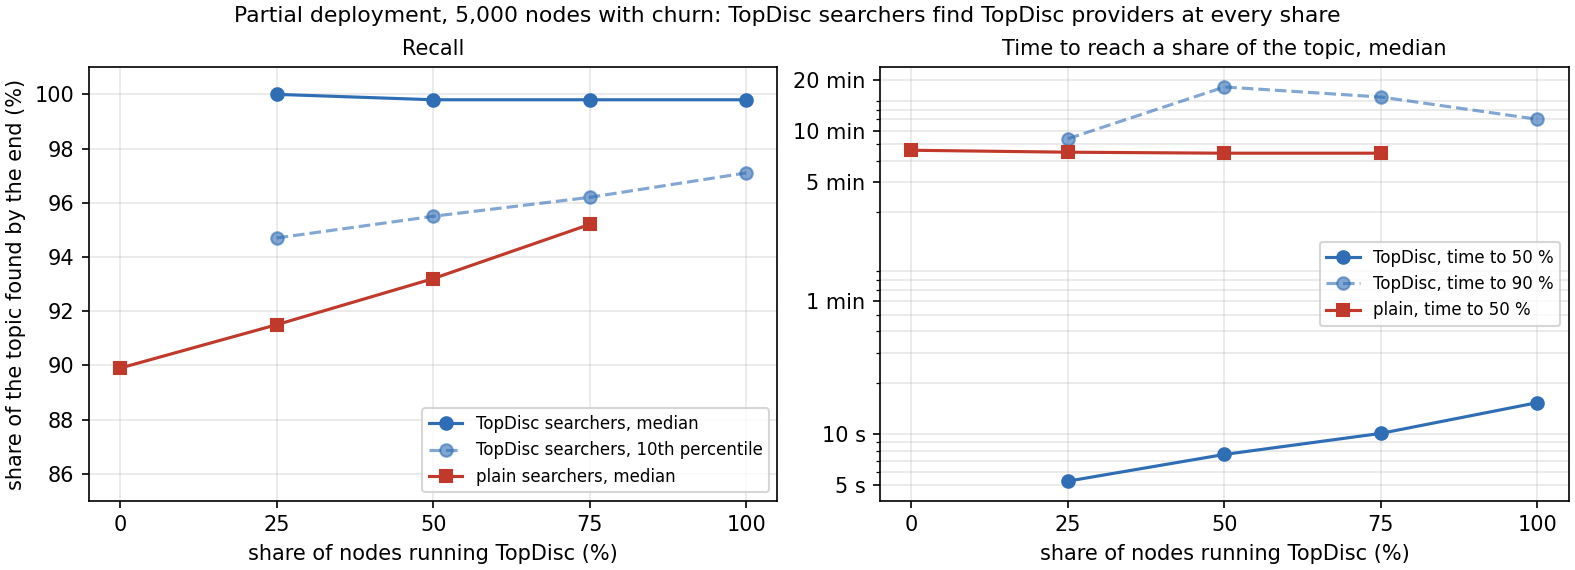
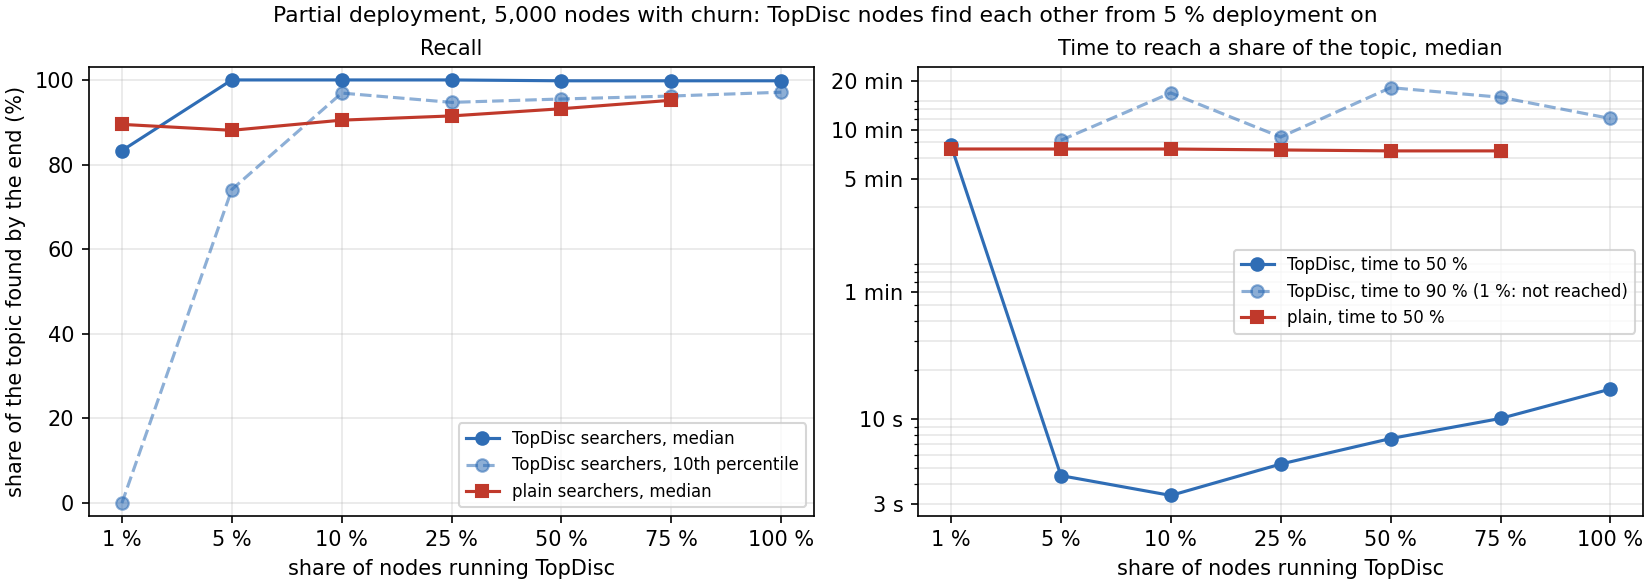
docs/final-report: partial deployment at 1, 5 and 10 %

diff --git a/docs/final-report/deploy/README.md b/docs/final-report/deploy/README.md
@@ -4,18 +4,20 @@
 
 ## Summary
 
-TopDisc nodes find the TopDisc nodes of their topic at every deployment share tested, from 25 % to 100 % of the network, and nodes that do not run TopDisc are not affected.
+TopDisc nodes find the TopDisc nodes of their topic from 5 % deployment on, and nodes that do not run TopDisc are not affected at any share. At 1 % deployment, TopDisc nodes are too scarce to find each other reliably.
 
-- The median TopDisc searcher finds 99.8 % to 100 % of its topic's TopDisc providers; 9 in 10 find at least 94.7 %.
+- From 5 % to 100 % deployment the median TopDisc searcher finds 99.8 % to 100 % of its topic's TopDisc providers; from 10 % on, 9 in 10 find at least 94.7 %.
+- At 1 % (46 TopDisc nodes in 5,000) the median TopDisc searcher finds 83.3 % and needs 8 min for half, no faster than a plain walk: 37 % of TopDisc nodes never meet another TopDisc node in their routing table.
 - At 25 % deployment, TopDisc searchers reach half of their providers in 5.3 s; plain discv5 searchers need 7.5 min for half of theirs.
 - Registrar load grows with the number of TopDisc nodes, so a small deployment does not concentrate load: the busiest registrar receives 11,614 requests at 25 % against 31,000 at 100 %.
 - No topic message reaches a plain node at any share, and plain nodes send less traffic as the TopDisc share grows.
 
 ## Scenario and setup
 
-Five 5,000-node runs on the AWS packed testbed (10 hosts, 500 nodes per host, each node with a 1 Mbit/s link and 4 to 45 ms one-way delay), each with a 90 min continuous search per node.
+Eight 5,000-node runs on the AWS packed testbed (10 hosts, 500 nodes per host, each node with a 1 Mbit/s link and 4 to 45 ms one-way delay), each with a 90 min continuous search per node.
 
-- **Deployment share.** TopDisc runs on 0, 25, 50, 75 or 100 % of the nodes, drawn within every topic, so each topic keeps roughly the run's share of TopDisc nodes. The other nodes run plain discv5 built from the same code base.
+- **Deployment share.** TopDisc runs on 0, 1, 5, 10, 25, 50, 75 or 100 % of the nodes, drawn within every topic, so each topic keeps roughly the run's share of TopDisc nodes. The other nodes run plain discv5 built from the same code base.
+- **Two sweeps, same workload.** The 0, 25, 50, 75 and 100 % runs come from a sweep on 2026-10-26, the 1, 5 and 10 % runs from a second sweep on 2026-10-27.
 - **Topics.** 98 topics sized by the chain shares of a 24 h mainnet crawl. Every node registers and searches one topic.
 - **Churn.** Node sessions replayed from the [crawl's churn analysis](../../churn-analysis.md), as in the main report.
 - **Scoring.** A TopDisc searcher is scored against the TopDisc providers of its topic, a plain searcher against all providers of its topic, counting only providers up at the end of the search. A TopDisc node alone in its topic has nobody to find and is not scored.
@@ -27,6 +29,12 @@ Five 5,000-node runs on the AWS packed testbed (10 hosts, 500 nodes per host, ea
 | TopDisc share | Node type | Searchers / scored | Recall, median / 10th pct | First provider, median | Time to 50 % | Time to 90 % |
 |---:|---|---:|---:|---:|---:|---:|
 | 0 % | plain | 4,996 / 4,976 | 89.9 / 46.9 % | 0 ms | 7.7 min | not reached by half |
+| 1 % | TopDisc | 46 / 36 | 83.3 / 0.0 % | 8.8 s | 8.0 min | not reached by half |
+| 1 % | plain | 4,950 / 4,930 | 89.5 / 47.2 % | 0 ms | 7.6 min | not reached by half |
+| 5 % | TopDisc | 240 / 223 | 100.0 / 74.1 % | 4.0 s | 4.5 s | 8.6 min |
+| 5 % | plain | 4,756 / 4,736 | 88.1 / 47.1 % | 0 ms | 7.6 min | not reached by half |
+| 10 % | TopDisc | 496 / 461 | 100.0 / 96.9 % | 2.4 s | 3.4 s | 16.8 min |
+| 10 % | plain | 4,501 / 4,482 | 90.5 / 47.5 % | 0 ms | 7.6 min | 85.8 min |
 | 25 % | TopDisc | 1,228 / 1,196 | 100.0 / 94.7 % | 1.8 s | 5.3 s | 9.0 min |
 | 25 % | plain | 3,767 / 3,748 | 91.5 / 49.6 % | 0 ms | 7.5 min | 77.1 min |
 | 50 % | TopDisc | 2,478 / 2,450 | 99.8 / 95.5 % | 1.4 s | 7.6 s | 18.1 min |
@@ -37,17 +45,29 @@ Five 5,000-node runs on the AWS packed testbed (10 hosts, 500 nodes per host, ea
 
 *A plain searcher's first provider at 0 ms is a provider already in its routing table when the search starts. Times are medians over searchers.*
 
-**Reading.** TopDisc's recall does not depend on the share: a TopDisc node finds the others through registrars, wherever they sit. Time to 50 % grows from 5.3 s to 15.3 s with the share, as each topic holds more TopDisc providers to collect. Plain searchers stay at the speed of a random walk, about 7.5 min to half of their topic.
+**Reading.** From 5 % on, TopDisc's recall does not depend on the share: a TopDisc node finds the others through registrars, wherever they sit. Time to 50 % grows from 5.3 s to 15.3 s with the share, as each topic holds more TopDisc providers to collect. Plain searchers stay at the speed of a random walk, about 7.5 min to half of their topic. At 1 % TopDisc loses its advantage: with 46 TopDisc nodes in the network, a TopDisc node often has no other TopDisc node in its routing table to start from (63 % saw one by the end of the search), so its search has few or no registrars to ask.
+
+| TopDisc share | Topics with no TopDisc node | with one | with two or more |
+|---:|---:|---:|---:|
+| 1 % | 83 | 10 | 5 |
+| 5 % | 63 | 17 | 18 |
+| 10 % | 40 | 30 | 28 |
+| 25 % | 23 | 29 | 46 |
+
+*Out of 98 topics. Only topics with two or more TopDisc nodes have anyone to find through TopDisc.*
 
 ### By topic size
 
-The slower time to 90 % at 50 % and 75 % comes from the largest topics; topics under 1,000 nodes reach 90 % in seconds to minutes at every share.
+The slower time to 90 % at 10 %, 50 % and 75 % comes from the largest topics; topics under 1,000 nodes reach 90 % in seconds to minutes at every share from 5 % on.
 
 #### Topics of 1000+ nodes
 
 | TopDisc share | TopDisc recall, median / 10th pct | TopDisc time to 50 % / 90 % | plain recall, median / 10th pct | plain time to 50 % / 90 % |
 |---:|---:|---:|---:|---:|
 | 0 % | – | – / – | 90.0 / 42.8 % | 7.8 min / 89.0 min |
+| 1 % | 83.3 / 0.0 % | 16.1 min / not reached by half | 89.5 / 42.7 % | 7.7 min / not reached by half |
+| 5 % | 97.8 / 80.2 % | 4.5 s / 23.8 min | 88.0 / 41.9 % | 7.7 min / not reached by half |
+| 10 % | 100.0 / 97.6 % | 4.5 s / 30.5 min | 90.4 / 42.9 % | 7.7 min / 86.3 min |
 | 25 % | 99.7 / 94.0 % | 7.4 s / 18.6 min | 91.7 / 45.2 % | 7.5 min / 76.4 min |
 | 50 % | 99.7 / 94.6 % | 11.3 s / 25.7 min | 93.6 / 46.1 % | 7.3 min / 64.9 min |
 | 75 % | 99.8 / 95.8 % | 15.2 s / 16.3 min | 95.7 / 46.3 % | 7.3 min / 53.9 min |
@@ -58,6 +78,9 @@ The slower time to 90 % at 50 % and 75 % comes from the largest topics; topics u
 | TopDisc share | TopDisc recall, median / 10th pct | TopDisc time to 50 % / 90 % | plain recall, median / 10th pct | plain time to 50 % / 90 % |
 |---:|---:|---:|---:|---:|
 | 0 % | – | – / – | 90.3 / 67.1 % | 7.0 min / 79.9 min |
+| 1 % | 100.0 / 0.0 % | 6.8 s / 16.2 s | 90.9 / 64.9 % | 7.0 min / 74.4 min |
+| 5 % | 100.0 / 83.3 % | 4.0 s / 5.2 s | 89.6 / 63.4 % | 7.1 min / not reached by half |
+| 10 % | 100.0 / 100.0 % | 2.4 s / 5.7 s | 91.9 / 63.8 % | 7.0 min / 64.6 min |
 | 25 % | 100.0 / 100.0 % | 2.4 s / 7.4 s | 91.4 / 60.5 % | 7.1 min / 71.9 min |
 | 50 % | 100.0 / 98.5 % | 2.6 s / 12.3 s | 91.9 / 55.9 % | 7.4 min / 68.3 min |
 | 75 % | 100.0 / 97.5 % | 3.4 s / 16.4 s | 93.0 / 58.4 % | 7.4 min / 68.8 min |
@@ -68,6 +91,9 @@ The slower time to 90 % at 50 % and 75 % comes from the largest topics; topics u
 | TopDisc share | TopDisc recall, median / 10th pct | TopDisc time to 50 % / 90 % | plain recall, median / 10th pct | plain time to 50 % / 90 % |
 |---:|---:|---:|---:|---:|
 | 0 % | – | – / – | 87.1 / 51.5 % | 8.3 min / not reached by half |
+| 1 % | – | – / – | 87.7 / 52.2 % | 8.1 min / not reached by half |
+| 5 % | 100.0 / 50.0 % | 7.6 s / 11.6 min | 87.7 / 56.8 % | 8.1 min / not reached by half |
+| 10 % | 100.0 / 75.0 % | 3.3 s / 8.0 min | 88.6 / 56.0 % | 8.3 min / not reached by half |
 | 25 % | 100.0 / 92.9 % | 2.3 s / 4.6 s | 89.9 / 62.5 % | 8.2 min / not reached by half |
 | 50 % | 100.0 / 95.2 % | 1.9 s / 2.1 min | 90.7 / 63.2 % | 8.5 min / 83.8 min |
 | 75 % | 100.0 / 95.3 % | 1.9 s / 8.1 min | 91.1 / 62.1 % | 8.8 min / 83.0 min |
@@ -78,6 +104,9 @@ The slower time to 90 % at 50 % and 75 % comes from the largest topics; topics u
 | TopDisc share | TopDisc recall, median / 10th pct | TopDisc time to 50 % / 90 % | plain recall, median / 10th pct | plain time to 50 % / 90 % |
 |---:|---:|---:|---:|---:|
 | 0 % | – | – / – | 85.7 / 25.0 % | 8.7 min / not reached by half |
+| 1 % | – | – / – | 100.0 / 2.0 % | 9.1 min / 85.8 min |
+| 5 % | – | – / – | 92.9 / 33.3 % | 7.3 min / not reached by half |
+| 10 % | – | – / – | 100.0 / 0.0 % | 7.8 min / 56.7 min |
 | 25 % | 100.0 / 100.0 % | 3.1 s / 3.1 s | 100.0 / 22.5 % | 8.9 min / 86.3 min |
 | 50 % | 100.0 / 100.0 % | 2.4 s / 2.5 s | 100.0 / 25.0 % | 7.7 min / 76.3 min |
 | 75 % | 100.0 / 100.0 % | 1.9 s / 2.0 s | 100.0 / 10.0 % | 10.2 min / 46.8 min |
@@ -90,6 +119,9 @@ The slower time to 90 % at 50 % and 75 % comes from the largest topics; topics u
 | TopDisc share | Registrars contacted per search, median | Requests per registrar, median / 99th pct / busiest | Busiest / median (check A3, limit 10×) | MB sent per node, median: TopDisc / plain |
 |---:|---:|---:|---:|---:|
 | 0 % | – | – | – | – / 24 |
+| 1 % | 28 | 4 / 744 / 951 | 451× | 15 / 24 |
+| 5 % | 233 | 813 / 2,442 / 3,385 | 5.4× | 19 / 23 |
+| 10 % | 386 | 1,149 / 3,892 / 6,427 | 7.2× | 20 / 22 |
 | 25 % | 744 | 1,785 / 8,384 / 11,614 | 7.3× | 19 / 19 |
 | 50 % | 1,184 | 2,808 / 13,865 / 18,794 | 6.7× | 16 / 15 |
 | 75 % | 1,596 | 4,005 / 17,011 / 25,578 | 6.3× | 15 / 10 |
@@ -97,22 +129,23 @@ The slower time to 90 % at 50 % and 75 % comes from the largest topics; topics u
 
 *Requests are REGTOPIC plus TOPICQUERY received per TopDisc registrar over the run, bootnode left out. A plain search is one continuous walk sending about 37,000 FINDNODE over the 90 min at every share.*
 
-**Reading.** Load per registrar scales with the number of TopDisc nodes and stays within the 10× bound at every share. Plain nodes send less as the share grows, because fewer plain walkers send FINDNODE to them.
+**Reading.** Load per registrar scales with the number of TopDisc nodes and stays within the 10× bound at every share from 5 % on. At 1 % the bound is not meaningful: the median registrar receives 4 requests in 90 min, so a busiest of 951 reads as 451×. Plain nodes send less as the share grows, because fewer plain walkers send FINDNODE to them.
 
 ## Coexistence with plain nodes
 
-| Check | What it asserts | 25 % | 50 % | 75 % |
-|---|---|---|---|---|
-| I1 | no REGTOPIC or TOPICQUERY sent to a plain node | pass | pass | pass |
-| C4 | no plain node in any registrar's ad cache | pass | pass | pass |
-| L2 | no plain node among TopDisc results | pass | pass | pass |
-| I2 | plain nodes still find providers | 16 of 3,498 found none | 9 of 2,336 | 6 of 1,177 |
+| Check | What it asserts | 1 % | 5 % | 10 % | 25 % | 50 % | 75 % |
+|---|---|---|---|---|---|---|---|
+| I1 | no REGTOPIC or TOPICQUERY sent to a plain node | pass | pass | pass | pass | pass | pass |
+| C4 | no plain node in any registrar's ad cache | pass | pass | pass | pass | pass | pass |
+| L2 | no plain node among TopDisc results | pass | pass | pass | pass | pass | pass |
+| I2 | plain nodes still find providers | 18 of 4,584 found none | 17 of 4,404 | 19 of 4,170 | 16 of 3,498 | 9 of 2,336 | 6 of 1,177 |
 
 *I2 also fails in the 0 % run (17 of 4,625), with the same node ids across runs, so it comes from the workload and not from TopDisc.*
 
 ## Limits
 
-- **Small topics at low share.** At 25 %, 23 of the 98 topics have no TopDisc node and 29 have exactly one. Those topics cannot be discovered through TopDisc; their nodes still find each other through the plain walk.
+- **1 % deployment.** TopDisc nodes are too few to find each other reliably.
+- **Small topics at low share.** At 25 %, 23 of the 98 topics have no TopDisc node and 29 have exactly one; at 1 %, 83 have none. Those topics cannot be discovered through TopDisc; their nodes still find each other through the plain walk.
 - **TopDisc finds TopDisc nodes only.** Plain nodes never register, and a node cannot register another node's record, so a TopDisc searcher sees plain providers only if it also runs the plain discv5 walk.
 - **Plain recall rising with the share** (89.9 % to 95.2 %) is observed, not explained by these runs.
 - **One seed per share.** Each share is a single run.

diff --git a/docs/final-report/README.md b/docs/final-report/README.md
@@ -504,13 +504,16 @@ Grid'5000 pair, found over time and time to reach a share of providers:
 
 ## Partial deployment
 
-TopDisc searchers find the TopDisc providers of their topic at every share tested, and nodes that do not run TopDisc are not hurt. Full analysis, with results by topic size and the coexistence checks: [partial deployment report](deploy/). Four 5,000-node AWS runs with churn and the same workload as above (fork `v1.17.2-testbed.23`, 90 min search) ran TopDisc on 25, 50, 75 and 100 % of the nodes, drawn within every topic; the rest ran plain discv5. A 0 % run is the plain baseline. TopDisc searchers are scored against the TopDisc providers of their topic, plain searchers against all providers, counting only providers up at the end.
+TopDisc searchers find the TopDisc providers of their topic from 5 % deployment on, and nodes that do not run TopDisc are not hurt at any share; at 1 %, TopDisc nodes are too scarce to find each other reliably. Full analysis, with results by topic size and the coexistence checks: [partial deployment report](deploy/). 5,000-node AWS runs with churn and the same workload as above (fork `v1.17.2-testbed.23`, 90 min search) ran TopDisc on 1, 5, 10, 25, 50, 75 and 100 % of the nodes, drawn within every topic; the rest ran plain discv5. A 0 % run is the plain baseline. TopDisc searchers are scored against the TopDisc providers of their topic, plain searchers against all providers, counting only providers up at the end.
 
 ![Partial deployment](deploy.png)
 
 | TopDisc share | TopDisc recall, median / 10th pct | TopDisc time to 50 % / 90 % | Plain recall, median | Plain time to 50 % | Registrar requests, median / busiest |
 |---:|---:|---:|---:|---:|---:|
 | 0 % | – | – | 89.9 % | 7.7 min | – |
+| 1 % | 83.3 / 0.0 % | 8.0 min / not reached | 89.5 % | 7.6 min | 4 / 951 |
+| 5 % | 100.0 / 74.1 % | 4.5 s / 8.6 min | 88.1 % | 7.6 min | 813 / 3,385 |
+| 10 % | 100.0 / 96.9 % | 3.4 s / 16.8 min | 90.5 % | 7.6 min | 1,149 / 6,427 |
 | 25 % | 100.0 / 94.7 % | 5.3 s / 9.0 min | 91.5 % | 7.5 min | 1,785 / 11,614 |
 | 50 % | 99.8 / 95.5 % | 7.6 s / 18.1 min | 93.2 % | 7.4 min | 2,808 / 18,794 |
 | 75 % | 99.8 / 96.2 % | 10.1 s / 15.8 min | 95.2 % | 7.4 min | 4,005 / 25,578 |
@@ -518,8 +521,8 @@ TopDisc searchers find the TopDisc providers of their topic at every share teste
 
 *Registrar requests are REGTOPIC plus TOPICQUERY received per TopDisc registrar over the run, bootnode left out.*
 
-- **Every share works.** At 25 % TopDisc searchers reach a median 100 % of their providers and half of them in 5.3 s; plain searchers need 7.5 min for half of theirs.
-- **Fewer TopDisc nodes do not overload registrars.** Load scales with the number of TopDisc nodes: at 25 % the busiest registrar receives 11,614 requests, against 31,000 at 100 %.
+- **Every share from 5 % works.** At 1 % (46 TopDisc nodes) the median TopDisc searcher finds 83.3 % and is no faster than a plain walk. At 25 % TopDisc searchers reach a median 100 % of their providers and half of them in 5.3 s; plain searchers need 7.5 min for half of theirs.
+- **Fewer TopDisc nodes do not overload registrars.** Load scales with the number of TopDisc nodes: at 5 % the busiest registrar receives 3,385 requests, at 25 % 11,614, against 31,000 at 100 %.
 - **Plain nodes are not hurt.** No topic message reaches a plain node at any share (check I1 passes). Plain recall rises from 89.9 % at 0 % to 95.2 % at 75 %, and plain nodes send less: fewer plain walkers send FINDNODE to them. The rise is observed, not explained.
 - **Small topics at low share.** At 25 %, 23 of 98 topics have no TopDisc node and 29 have exactly one, so a lone TopDisc node has nobody to find; such searchers are not scorable.
 - **Time to 90 % is slower at 50 % and 75 % than at 25 % or 100 %.** These runs do not show why.
